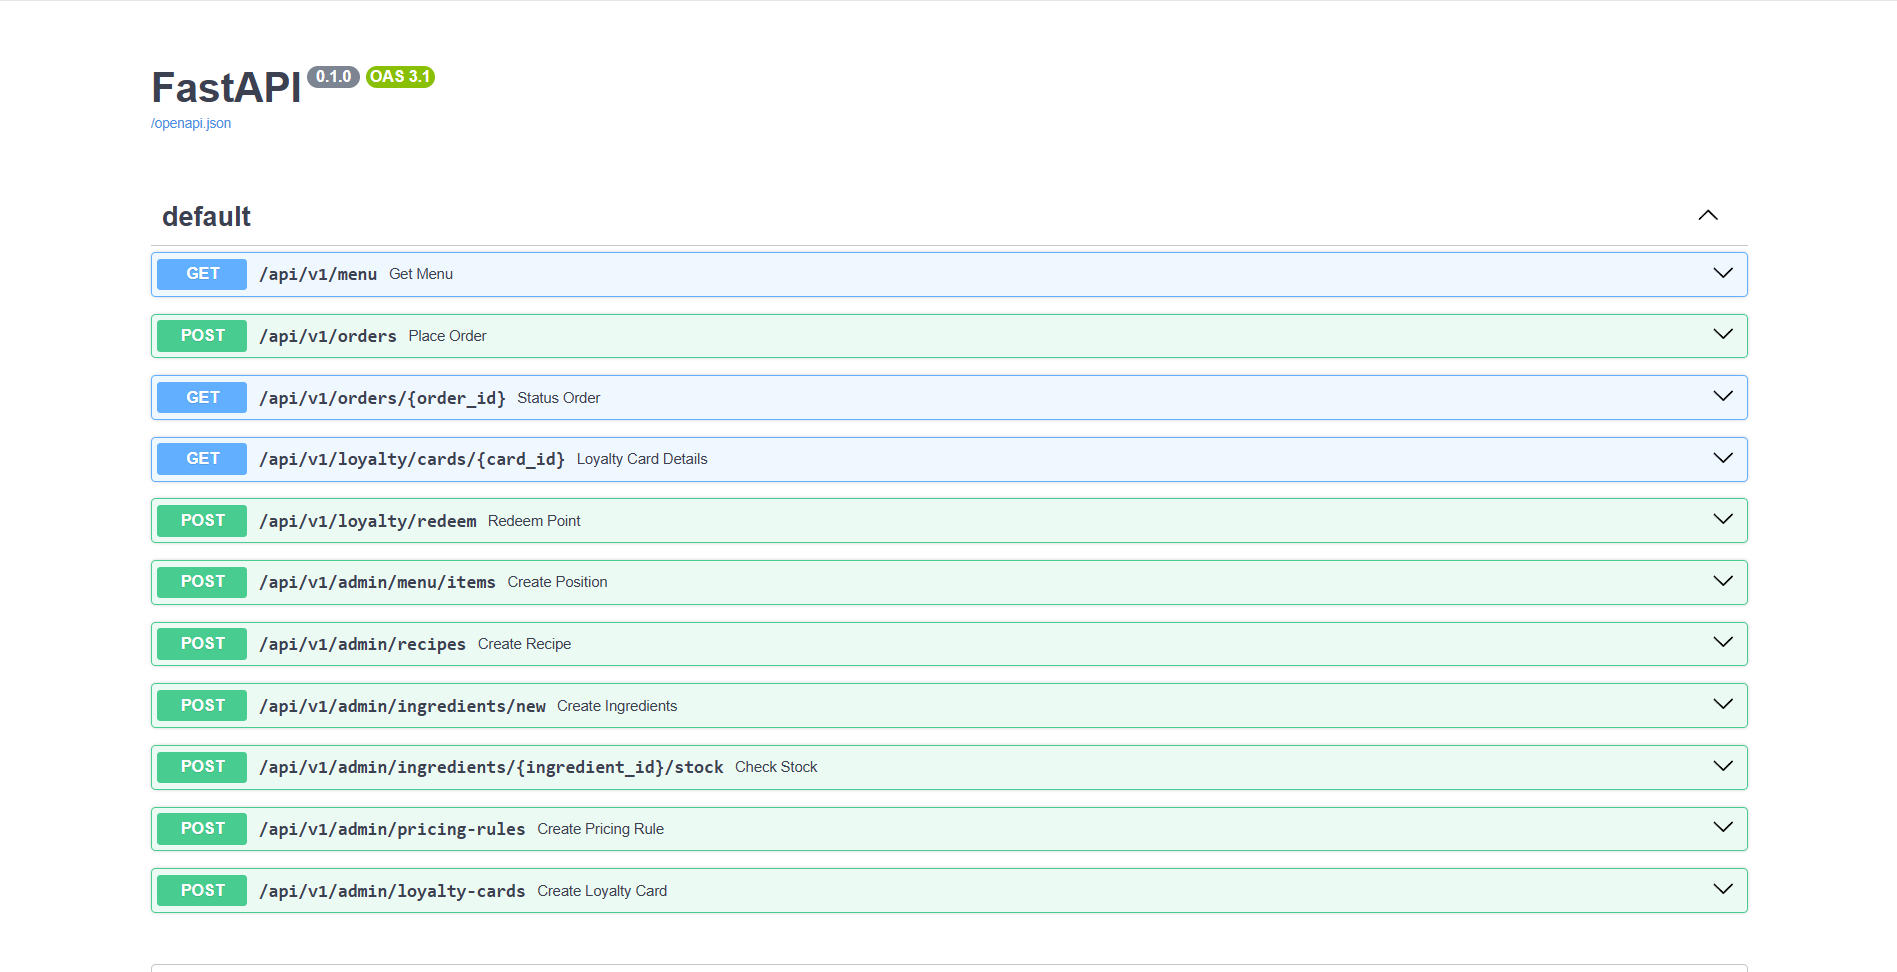
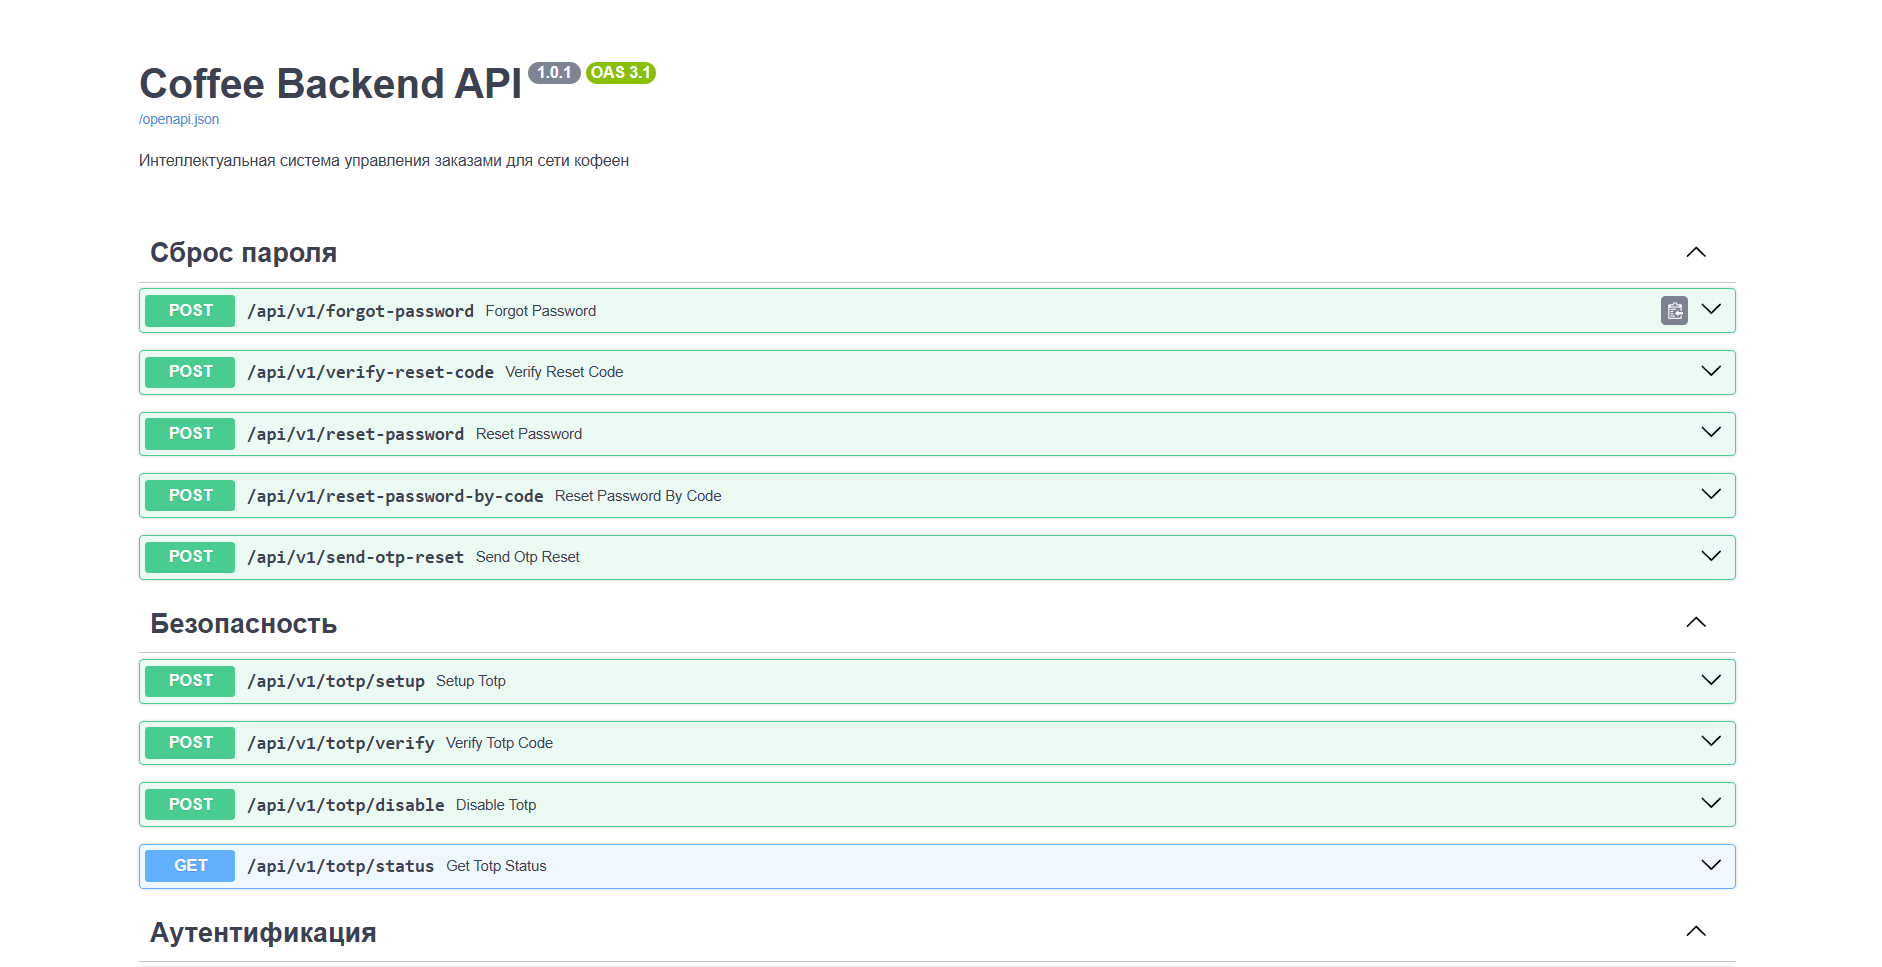
Обновлена документация

Changed region(s): [[0.0616, 0.2172, 0.9245, 1.0], [0.0616, 0.062, 0.3698, 0.1861]]

diff --git a/README.md b/README.md
@@ -6,9 +6,10 @@
 
 [![Python](https://img.shields.io/badge/Python-3.12+-blue.svg?logo=python)](https://python.org)
 [![FastAPI](https://img.shields.io/badge/FastAPI-0.136.1-green.svg?logo=fastapi)](https://fastapi.tiangolo.com)
+<img src="https://img.shields.io/badge/License-MIT-blue.svg" alt="License">
 [![PostgreSQL](https://img.shields.io/badge/PostgreSQL-16+-blue.svg?logo=postgresql)](https://postgresql.org)
 [![Docker](https://img.shields.io/badge/Docker-ready-brightgreen.svg?logo=docker)](https://docker.com)
-[![Tests](https://img.shields.io/badge/tests-12%20passed-success.svg)](#-тестирование)
+[![Tests](https://img.shields.io/badge/tests-18%20passed-success.svg)](#-тестирование)
 
 [🚀 Быстрый старт](#-быстрый-старт) •
 [📋 API Документация](#-api-эндпоинты) •
@@ -49,7 +50,8 @@
 
 ### Swagger UI — Автоматическая документация API
 ![Swagger UI](assets/screenshots/swagger_ui.png)
-> *Все эндпоинты доступны с интерактивной документацией*
+> *Пример всех эндпоинтов доступны с интерактивной документацией*
+
 ## 🧪 Тестирование
 ```bash
 # Все тесты
@@ -66,7 +68,7 @@ pytest --cov=coffee_backend
 ```
 ### Результаты тестирования
 ![Tests](assets/screenshots/test.png)
-> *12 тестов проходят за ~3.5 секунды*
+> *18 тестов проходят за ~23.5 секунды(с учётом создания БД)*
 
 ---
 
@@ -84,51 +86,27 @@ pytest --cov=coffee_backend
 | Тестирование        | pytest, pytest-asyncio, httpx |
 | Асинхронный драйвер | asyncpg                       |
 | ASGI сервер         | Uvicorn                       |
+| Хеширование паролей | Argon2                        |
 
 ---
 
 ## 🏗 Архитектура проекта
 ```
-📁 coffee_backend/                  # Основной пакет приложения
-│
-├── 📁 app/
-│   ├── 📁 models/                    # SQLAlchemy модели (async)
-│   │   ├── 📄 base.py
-│   │   └── 📄 models.py
-│   │
-│   ├── 📁 routers/                 # API эндпоинты
-│   │   ├── 📄 admin.py             # Админ-панель
-│   │   ├── 📄 loyalty.py           # Программа лояльности
-│   │   ├── 📄 menu.py              # Меню
-│   │   └── 📄 orders.py            # Заказы
-│   │
-│   ├── 📁 services/                # Бизнес-логика
-│   │   ├── 📄 inventory.py         # Управление складом
-│   │   ├── 📄 loyalty_services.py  # Логика лояльности
-│   │   ├── 📄 order_services.py    # Создание заказов
-│   │   └── 📄 pricing.py           # Динамическое ценообразование
-│   │
-│   ├── 📁 exception/               # Кастомные исключения
-│   ├── 📄 config.py                # Конфигурация приложения
-│   ├── 📄 database.py              # Подключение к БД
-│   ├── 📄 schemas.py               # Pydantic v2 валидация
-│   └── 📄 main.py                  # Точка входа FastAPI
-│
-├── 📁 alembic/                     # Миграции БД
-├── 📄 alembic.ini
-│
-├── 📁 tests/                       # Тесты
-│   ├── 📄 conftest.py
-│   ├── 📄 factories.py
-│   ├── 📄 test_admin.py
-│   ├── 📄 test_menu.py
-│   ├── 📄 test_orders.py
-│   └── 📄 test_services.py
-│
-├── 📄 DockerFile                   # Docker образ приложения
-├── 📄 docker-compose.yml           # Оркестрация сервисов
-├── 📄 requirements.txt             # Зависимости Python
-└── 📄 pytest.ini                   # Конфигурация pytest
+├── coffee_backend/          # Основной пакет приложения
+│   ├── app/                 # Модули приложения
+│   │   ├── models/          # SQLAlchemy модели (async)[reference:35]
+│   │   ├── routers/         # API эндпоинты (админка, лояльность, меню, заказы)[reference:36]
+│   │   ├── services/        # Бизнес-логика (склад, лояльность, заказы, цены)[reference:37]
+│   │   └── exception/       # Кастомные исключения[reference:38]
+│   ├── config.py            # Конфигурация приложения[reference:39]
+│   ├── database.py          # Подключение к БД[reference:40]
+│   ├── schemas.py           # Pydantic v2 валидация[reference:41]
+│   └── main.py              # Точка входа FastAPI[reference:42]
+├── alembic/                 # Миграции БД[reference:43]
+├── tests/                   # Тесты (12 тестов проходят за ~3.5 секунды)[reference:44]
+├── Dockerfile               # Docker образ приложения[reference:45]
+├── docker-compose.yml       # Оркестрация сервисов[reference:46]
+└── requirements.txt         # Зависимости Python[reference:47]
 ```
 
 ---
@@ -248,7 +226,7 @@ uvicorn app.main:app --host 0.0.0.0 --port 8000 --reload
 | ----- | ------------------------ | -------------------------------- |
 | GET   | /loyalty/cards/{card_id} | Получить детали карты лояльности |
 | POST  | /loyalty/redeem          | Обменять баллы на скидку         |
-|       |                          |                                  |
+| GET   | /loyalty/me              | Получение карты лояльности текущего пользователя|
 
 **GET** /loyalty/cards/{card_id} — ответ:
 
@@ -285,11 +263,49 @@ uvicorn app.main:app --host 0.0.0.0 --port 8000 --reload
 | POST  | /admin/ingredients/{ingredient_id}/stock | Обновить остаток ингредиента    |
 | POST  | /admin/pricing-rules                     | Создать правило ценообразования |
 | POST  | /admin/loyalty-cards                     | Выдать карту лояльности         |
---------------------------------------------------------------------------
+| GET   | /admin/users                             | Получить список пользователей   |
+| PATCH | /admin/users/{user_id}/status            | Изменить статус пользователя    |
 
 **Примеры запросов – смотрите в автоматической документации <hred src=http://localhost:8000/docs>.** 
-
 ---
+
+### 🗝 Аутентификация 
+
+|Метод | Эндпоинт                 | Описание                |
+|------|------------------------- |-------------------------|       
+| POST | /auth/registration       | Создание аккаунта       |
+| POST | /auth/login              | Вход по логину и паролю |
+| POST | /auth/login/totp         | Второй шаг логина с TOTP(изначально выключен)|
+| POST | /auth/logout             | Завершение сесси и удаление куки| 
+| POST | /auth/session/refresh    | Продление сессии        |
+| GET  | /auth/me                 | Получение информации о текущем пользовател|
+
+**Примеры запросов – смотрите в автоматической документации <hred src=http://localhost:8000/docs>.** 
+---
+
+### 🛡 Безопасность 
+
+|Метод | Эндпоинт                 | Описание                                         |
+|------|------------------------- |--------------------------------------------------|
+| POST | /totp/setup              | Настройка TOTP (2FA)(Подбробнее в документации)  |
+| POST | /totp/verify             | Верификация TOTP кода для подтверждения настройки|
+| POST | /totp/disable            | Отключение TOTP                                  |
+| GET  | /totp/status             | Получение статуса TOTP для текущего пользователя | 
+
+**Примеры запросов – смотрите в автоматической документации <hred src=http://localhost:8000/docs>.** 
+---
+
+### Сброс пароля ⛓
+
+|Метод | Эндпоинт                 | Описание                                         |
+|------|------------------------- |--------------------------------------------------|
+| POST | /forgot-password         | Инициация сброса пароля                          | 
+| POST | /verify-reset-code       | Проверяет 6-значный код из email.                | 
+| POST | /reset-password          | Сброс пароля после успешной верификации.         |
+| POST | /reset-password-by-code  | Сброс пароля по 6-значному коду из email.        |
+| POST | /send-otp-reset          | Альтернативный метод: отправка OTP кода только для проверки.|
+
+
 ## 🏗 Модели данных (БД)
 
 | Таблица       | Описание                              |